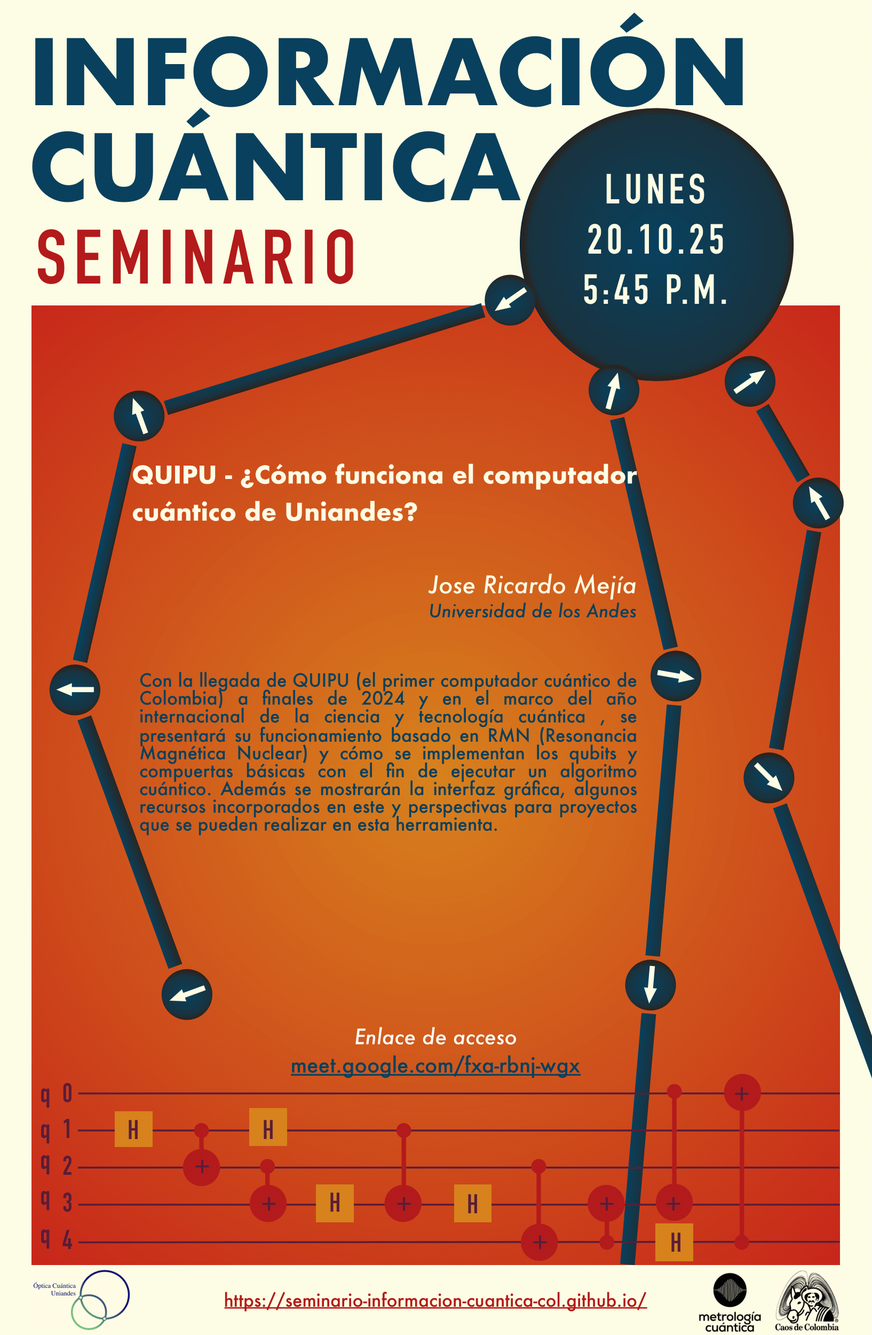
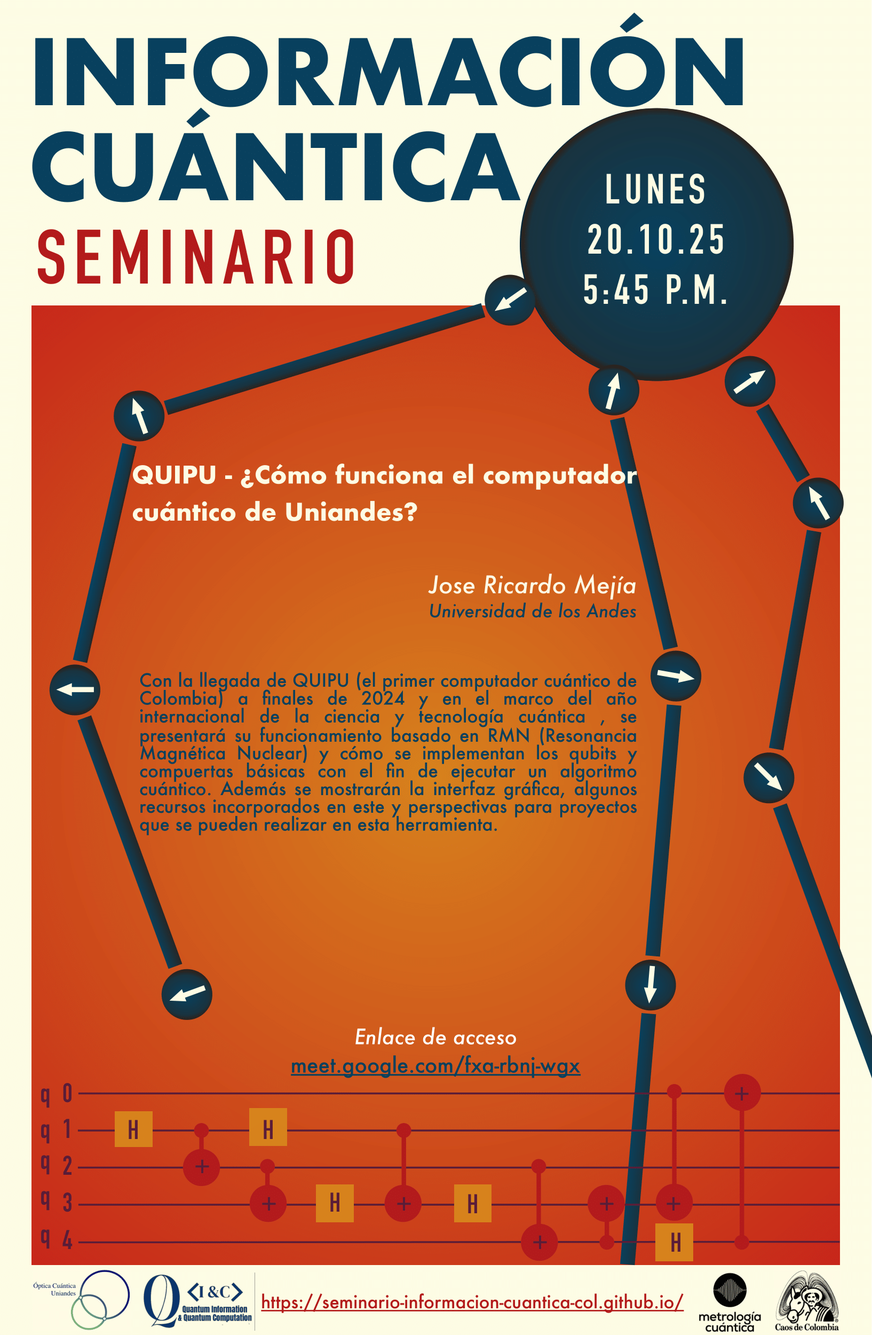
New talk updates

Changed region(s): [[0.1561, 0.936, 0.7803, 0.9984]]

diff --git a/index.html b/index.html
@@ -77,7 +77,7 @@
   </div>
     <div class="mt-4">
       <a href="http://meet.google.com/fxa-rbnj-wgx" target="_blank">
-        <img src="assets/img/poster_s1_s3.png" 
+        <img src="assets/img/poster_s1_s4-1.png" 
              alt="Anuncio próxima charla" 
              style="max-width:70%; height:auto; margin:auto; display:block;">
       </a>
@@ -100,7 +100,7 @@
                   </h5>
                 </div>
                 <p class="lead">
-                 El Seminario de Información Cuántica surge como un espacio permanente de encuentro y discusión sobre las investigaciones en este campo que se desarrollan en Colombia. Actualmente participan los grupos de Caos y Complejidad de la Universidad Nacional de Colombia (UNAL), de Óptica Cuántica de la Universidad de los Andes y el proyecto de Metrología cuántica.
+                 El Seminario de Información Cuántica surge como un espacio permanente de encuentro y discusión sobre las investigaciones en este campo que se desarrollan en Colombia. Actualmente participan los grupos de Caos y Complejidad de la Universidad Nacional de Colombia (UNAL), de Óptica Cuántica de la Universidad de los Andes, de información y computación cuántica de la Universidad de Córdoba y el proyecto de regalias en Metrología cuántica. </Ul>.
                   </p><p class="lead">
                 Las sesiones se realizarán de manera virtual.
                 </p><p class="lead">
@@ -114,6 +114,7 @@
                 <img src="assets/img/logo_quantum_optics.svg" alt="Logo grupo Óptica Cuántica" style="width:160px; margin:10px;">
                 <img src="assets/img/logo_CyC.png" alt="Logo grupo Caos y Complejidad" style="width:160px; margin:10px;">
                 <a href="https://quantumcolombia.net/"><img src="assets/img/logo_metro_Negro_2.png" alt="Logo metrología cuántica" style="width:160px; margin:10px;"></a>
+                <img src="assets/img/QI&C_UNICORDOBA_LOGO.JPG" alt="Logo Universidad de Córdoba" style="width:160px; margin:10px;">
               </div>
 
             </div>

diff --git a/Grabaciones.html b/Grabaciones.html
@@ -130,6 +130,30 @@
               </div>
             </div>
           </div>
+        <div class="col-md-4">
+            <div class="work-box">
+              <a href="assets/img/SeminarS3.png" data-gallery="portfolioGallery" class="portfolio-lightbox">
+                <div class="work-img">
+                  <img src="assets/img/SeminarS3.png" alt="" class="img-fluid">
+                </div>
+              </a>
+              <div class="work-content">
+                <div class="row">
+                  <div class="col-sm-8">
+                    <h2 class="w-title"> Teoría de recursos cuánticos multiobjetos en el juego de exclusión desubcanales cuánticos con información previa </h2>
+                    <div class="w-more">
+                      <span class="w-ctegory"> Fernando J. Hernandez · Universidad de Córdoba </span> / <span class="w-date"> Octubre 6. 2025</span>
+                    </div>
+                  </div>
+                  <div class="col-sm-4">
+                    <div class="w-like">
+                      <a href="https://youtu.be/Gm9nUchIpm8"> <span class="bi bi-plus-circle"></span></a>
+                    </div>
+                  </div>
+                </div>
+              </div>
+            </div>
+          </div>
 
     <!-- End Portfolio Section -->
 

diff --git a/Programacion.html b/Programacion.html
@@ -108,7 +108,7 @@
         <h6 class="card-subtitle mb-2 text-muted"> Fernando J. Hernandez · Universidad de Córdoba</h6>
         <p class="card-text"><b>Fecha:</b> 06 Oct 2025 · 5:45 PM</p>
         <!-- Botón apunta a #posterModal1 -->
-        <a href="#" class="btn btn-primary" data-bs-toggle="modal" data-bs-target="#posterModal1">Más info</a>
+        <a href="#" class="btn btn-secondary" data-bs-toggle="modal" data-bs-target="#posterModal1">Más info</a>
       </div>
     </div>
     <!-- Modal con id único -->
